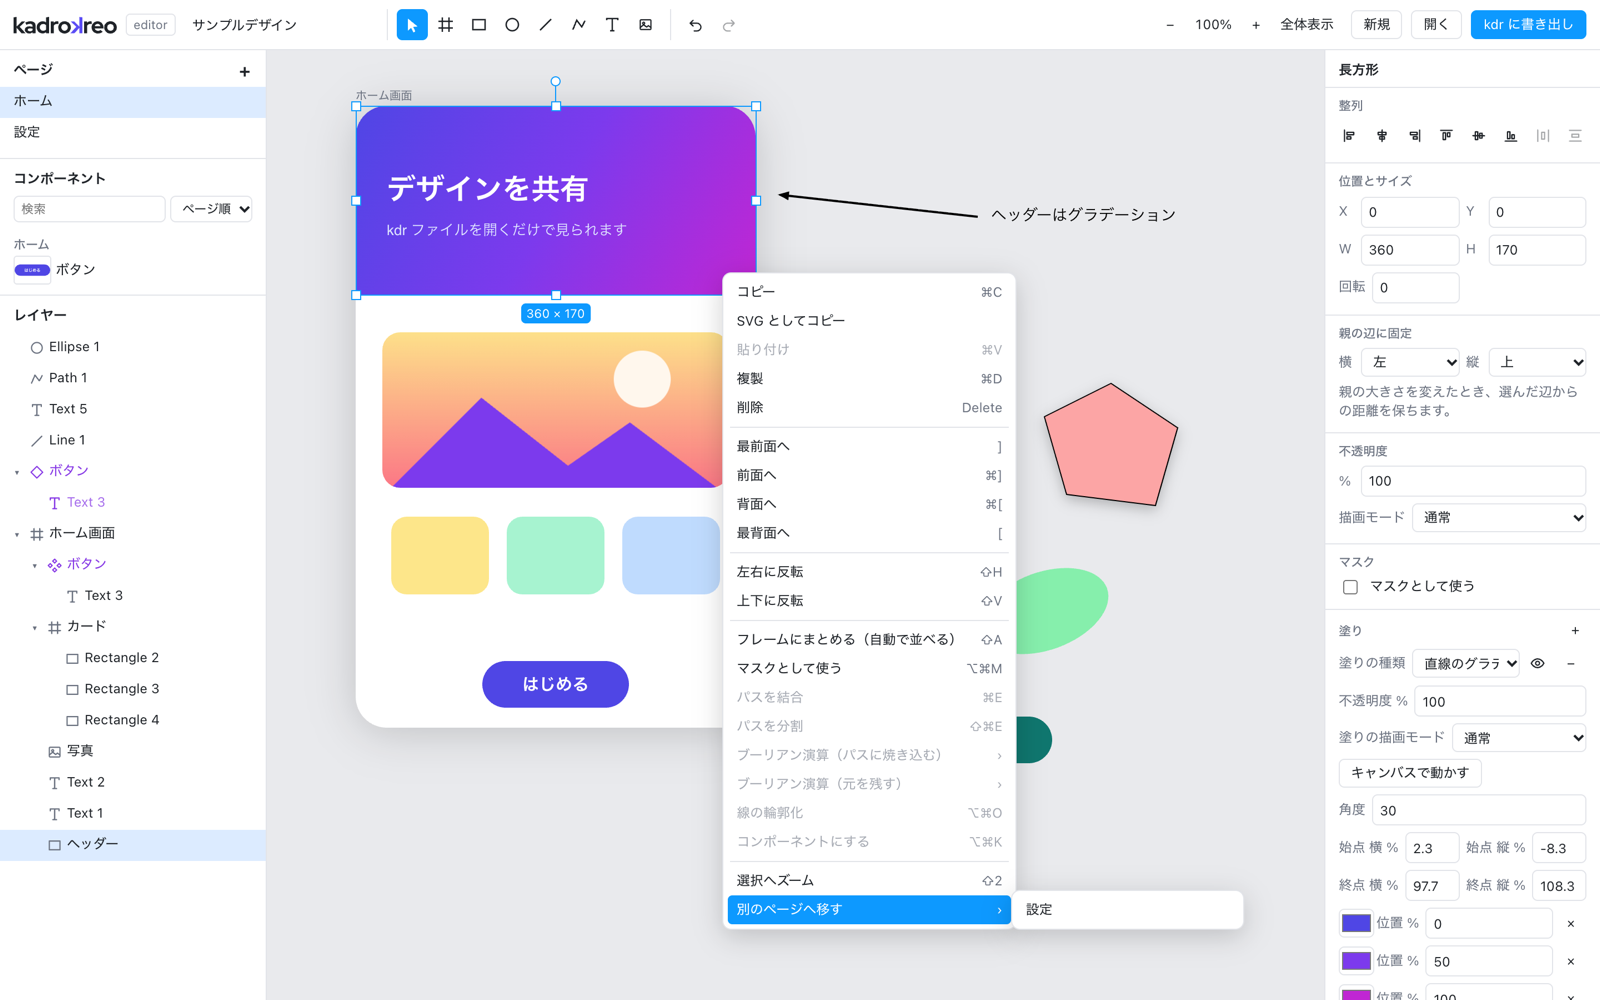
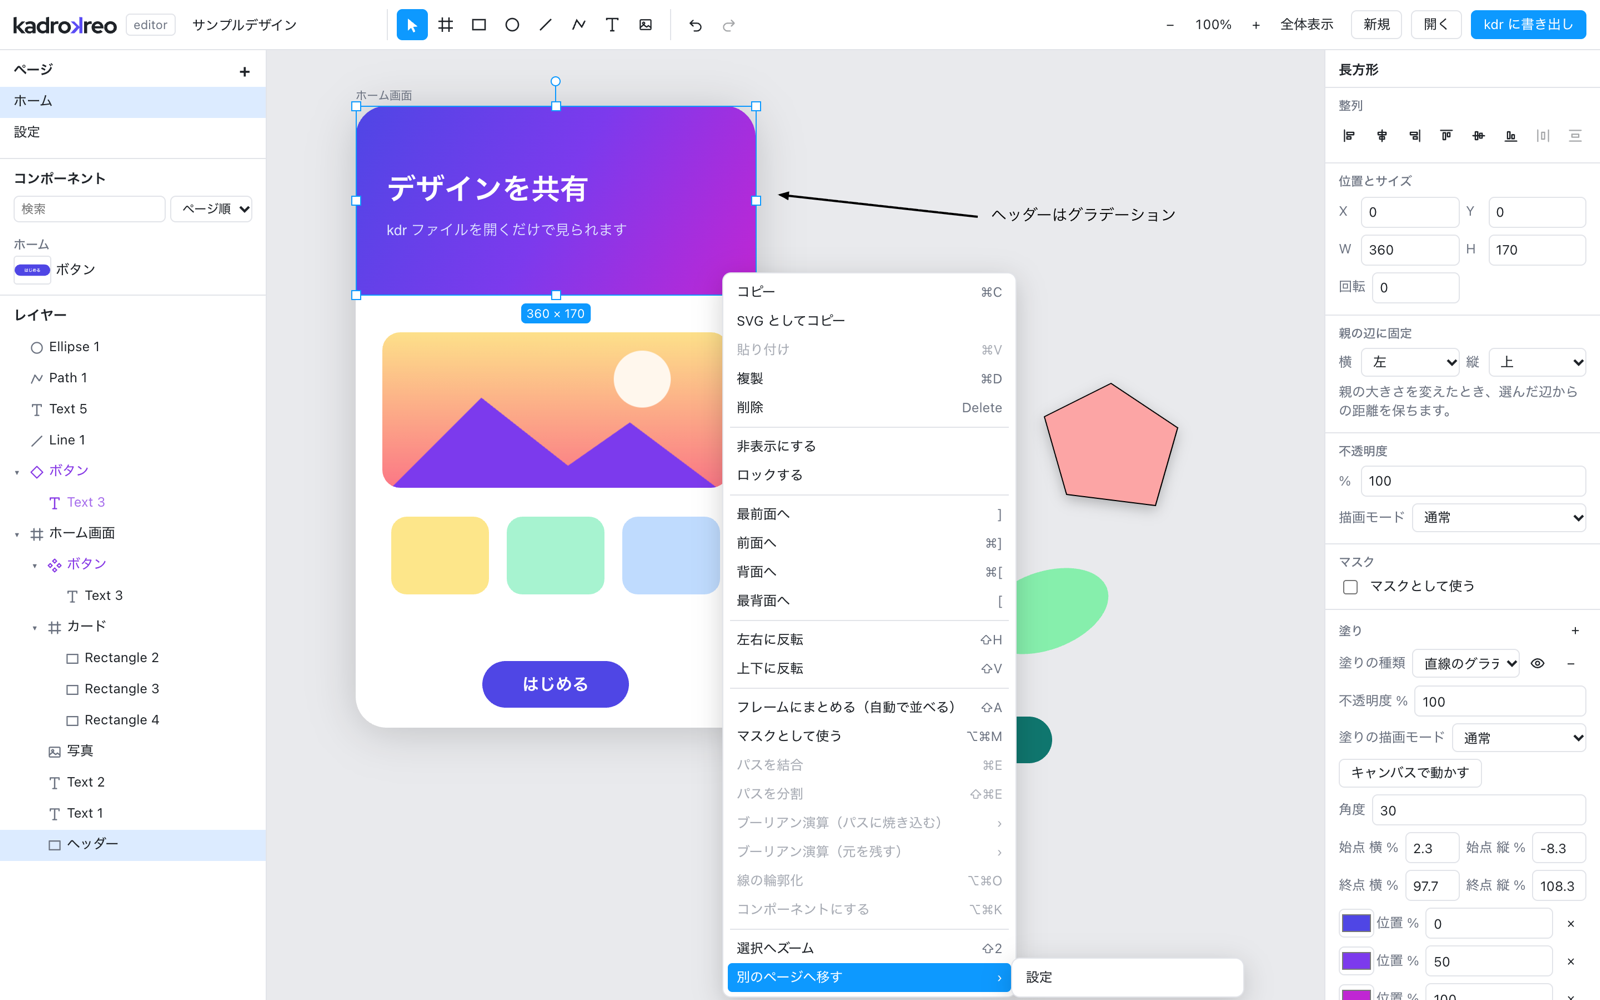
レイヤーパネルの行でも右クリックメニューを出し、メニューに表示・ロックの切り替えを足す
メニューの中身はキャンバスと同じものを 1 か所（EditorCanvas）で作り、レイヤーパネルからは EditorApp が持つ ref を通してキャンバスに開かせる。項目を二重に持たないため。
メニューはウィンドウ基準（position: fixed）に変え、パネルの上でもキャンバスに切られずに出し、はみ出す向きはウィンドウの大きさで寄せる。そのため CanvasPointer に client 座標を足した。
行の右クリックは、選んでいない行ならその行だけを選び、選んでいる行なら複数の選択をそのまま残す（キャンバスの右クリックと同じ）。
表示・ロックは選んだものをまとめて切り替え、1 つでも見えている（ロックしていない）なら全部を隠す（ロックする）。1 回の Undo で戻る。
インスタンスの中身は行のボタンと同じく表示だけ切り替え、ロックは対象から外す。ショートカットは今回は足していない。

Closes #5

Changed region(s): [[0.4375, 0.434, 0.7812, 1.0]]

diff --git a/src/editor/EditorCanvas.tsx b/src/editor/EditorCanvas.tsx
@@ -1,4 +1,4 @@
-import { useCallback, useEffect, useReducer, useRef, useState } from 'react'
+import { type RefObject, useCallback, useEffect, useLayoutEffect, useReducer, useRef, useState } from 'react'
 import { type CanvasPointer, CanvasView } from '../canvas/CanvasView.tsx'
 import type { Camera } from '../canvas/camera.ts'
 import { hitTest } from '../canvas/hitTest.ts'
@@ -48,7 +48,7 @@ import { useTextEditing } from './editorCanvas/useTextEditing.ts'
 import { findFrameAt } from './hitTest.ts'
 import { isSelfOrAncestor } from './operations/tree.ts'
 import { createPath } from './nodes.ts'
-import { insertNode } from './operations/tree.ts'
+import { insertNode, updateNodes } from './operations/tree.ts'
 import {
   deleteContourVertices,
   editByContour,
@@ -96,9 +96,26 @@ type Props = {
   onCopySvg: () => void
   /** コンポーネントの一覧からドラッグしているインスタンスが入るフレーム（ページ直下なら null） */
   dropTarget?: NodeId | null
+  /** ほかの場所（レイヤーパネル）から右クリックメニューを出すための口。ここに出す関数を入れる */
+  menuOpenerRef?: RefObject<MenuOpener | null>
 }
 
-export function EditorCanvas({ store, camera, state, tool, onToolChange, onPasteImages, onPasteSvg, onCopySvg, onMessage, dropTarget = null }: Props) {
+/** 選択中のものについての右クリックメニューを、画面座標（clientX / clientY）に出す */
+export type MenuOpener = (at: Point) => void
+
+export function EditorCanvas({
+  store,
+  camera,
+  state,
+  tool,
+  onToolChange,
+  onPasteImages,
+  onPasteSvg,
+  onCopySvg,
+  onMessage,
+  dropTarget = null,
+  menuOpenerRef,
+}: Props) {
   const gestureRef = useRef<Gesture | null>(null)
   // ペンツールで描いている途中の頂点（ページ座標、制御点を含む）。cursor はポインタの位置
   const penRef = useRef<{ points: Vertex[]; cursor: Point | null } | null>(null)
@@ -106,7 +123,7 @@ export function EditorCanvas({ store, camera, state, tool, onToolChange, onPaste
   const penPressRef = useRef<Point | null>(null)
   const [hover, setHover] = useState<NodeId | null>(null)
   const [cursor, setCursor] = useState('default')
-  // 右クリックメニューを出している位置（キャンバスの画面座標）
+  // 右クリックメニューを出している位置（ウィンドウの画面座標）
   const [menuAt, setMenuAt] = useState<Point | null>(null)
   const closeMenu = useCallback(() => setMenuAt(null), [])
   const [, redraw] = useReducer((n: number) => n + 1, 0)
@@ -718,19 +735,62 @@ export function EditorCanvas({ store, camera, state, tool, onToolChange, onPaste
     onMessage,
   })
 
-  /** 右クリック。押した所のものを選んで（選択枠の内側なら選択はそのまま）、メニューを出す */
-  function onContextMenu(pointer: CanvasPointer) {
-    if (gestureRef.current) return
+  /** メニューを出す前に、途中の操作（文字の編集・ペン・ほかのツール）を終える */
+  function prepareMenu() {
     if (editingRef.current) finishEditing()
     if (penRef.current) finishPen(false)
     if (tool !== 'select') onToolChange('select')
+    setHover(null)
+  }
+
+  /** 右クリック。押した所のものを選んで（選択枠の内側なら選択はそのまま）、メニューを出す */
+  function onContextMenu(pointer: CanvasPointer) {
+    if (gestureRef.current) return
+    prepareMenu()
     const { selection } = store.getState()
     const hit = pick(pointer)
     if (hit ? !selection.includes(hit) && !insideSelection(pointer, hit) : !insideSelection(pointer, null)) {
       store.select(hit ? [hit] : [])
     }
-    setHover(null)
-    setMenuAt(pointer.screen)
+    setMenuAt(pointer.client)
+  }
+
+  // レイヤーパネルの右クリックからも、同じメニューを出せるようにする（選ぶのはパネルの側）
+  // 出す関数はいつも最新の値（ツールなど）を見る。入れ替えるのは描き終えたあと
+  const openFromOutside = useRef<MenuOpener>(() => {})
+  useLayoutEffect(() => {
+    openFromOutside.current = (at) => {
+      if (gestureRef.current) return
+      prepareMenu()
+      setMenuAt(at)
+    }
+  })
+  useEffect(() => {
+    if (!menuOpenerRef) return
+    menuOpenerRef.current = (at) => openFromOutside.current(at)
+    return () => {
+      menuOpenerRef.current = null
+    }
+  }, [menuOpenerRef])
+
+  /** 表示・ロックの切り替え。選んだもののうち 1 つでも見えている（ロックしていない）なら全部を隠す（ロックする） */
+  function visibilityItems(): MenuItem[] {
+    const { page, selection } = store.getState()
+    // 写し（インスタンスの中身）は、表示の切り替えだけできる（レイヤーパネルの行と同じ）
+    const shown = selection.some((id) => page.nodes[id]?.visible)
+    const own = ownIds()
+    const unlocked = own.some((id) => !page.nodes[id]?.locked)
+    return [
+      {
+        label: shown ? '非表示にする' : '表示する',
+        onSelect: () => store.apply((base) => updateNodes(base, selection, { visible: !shown })),
+      },
+      {
+        label: unlocked ? 'ロックする' : 'ロックを解除',
+        disabled: own.length === 0,
+        onSelect: () => store.apply((base) => updateNodes(base, own, { locked: unlocked })),
+      },
+    ]
   }
 
   function menuItems(): MenuItem[] {
@@ -752,6 +812,8 @@ export function EditorCanvas({ store, camera, state, tool, onToolChange, onPaste
       { label: '貼り付け', shortcut: `${MOD}V`, disabled: !canPaste, onSelect: commands.paste },
       { label: '複製', shortcut: `${MOD}D`, disabled: none, onSelect: commands.duplicate },
       { label: '削除', shortcut: 'Delete', disabled: movableIds().length === 0, onSelect: commands.remove },
+      'separator',
+      ...visibilityItems(),
       'separator',
       { label: '最前面へ', shortcut: ']', disabled: none, onSelect: () => commands.reorder('front') },
       { label: '前面へ', shortcut: `${MOD}]`, disabled: none, onSelect: () => commands.reorder('forward') },
@@ -850,7 +912,7 @@ export function EditorCanvas({ store, camera, state, tool, onToolChange, onPaste
       onDoubleClick={onDoubleClick}
       onContextMenu={onContextMenu}
     >
-      {menuAt && <ContextMenu at={menuAt} area={camera.getSize()} items={menuItems()} onClose={closeMenu} />}
+      {menuAt && <ContextMenu at={menuAt} items={menuItems()} onClose={closeMenu} />}
       {editing && (
         <TextEditor
           key={editing.id}

diff --git a/src/editor/LayersPanel.tsx b/src/editor/LayersPanel.tsx
@@ -2,6 +2,7 @@ import { type DragEvent, type MouseEvent, memo, useLayoutEffect, useMemo, useRef
 import { isInstance, owningInstance } from '../document/component.ts'
 import { isComponentPart } from '../document/variants.ts'
 import { isOpen, layerRows, toggleFolding } from '../document/layers.ts'
+import type { Point } from '../document/geometry.ts'
 import type { NodeId, Scene, SceneNode } from '../document/types.ts'
 import { LayerCaret, LayerIcon } from '../ui/LayerParts.tsx'
 import { useVirtualRows } from '../ui/virtualRows.ts'
@@ -15,6 +16,8 @@ import type { EditorState, EditorStore } from './store.ts'
 type Props = {
   store: EditorStore
   state: EditorState
+  /** 行を右クリックした。選択を決めたあとで、画面座標（clientX / clientY）にメニューを出す */
+  onContextMenu: (at: Point) => void
 }
 
 type Drop = { id: NodeId; placement: Placement }
@@ -29,6 +32,7 @@ function isInLayout(scene: Scene, id: NodeId): boolean {
 /** 行から呼ぶ操作。描き直しても同じ参照のままなので、変わっていない行は描き直さずに済む */
 type RowActions = {
   click: (event: MouseEvent, id: NodeId) => void
+  contextMenu: (event: MouseEvent, id: NodeId) => void
   toggleOpen: (id: NodeId) => void
   startRename: (id: NodeId) => void
   commitRename: (id: NodeId, name: string) => void
@@ -40,7 +44,7 @@ type RowActions = {
   toggleVisible: (node: SceneNode) => void
 }
 
-export function LayersPanel({ store, state }: Props) {
+export function LayersPanel({ store, state, onContextMenu }: Props) {
   const { page, selection } = state
   const [toggled, setToggled] = useState<ReadonlySet<NodeId>>(new Set())
   const [renaming, setRenaming] = useState<NodeId | null>(null)
@@ -62,9 +66,9 @@ export function LayersPanel({ store, state }: Props) {
   const anchorRef = useRef<{ id: NodeId; selection: readonly NodeId[] } | null>(null)
 
   // 操作は、いつも最新の値を見る（行に渡す関数の参照は変えない）。値は描き終えたあとに入れ替える
-  const latest = useRef({ store, selection, toggled, drop, folding, rows })
+  const latest = useRef({ store, selection, toggled, drop, folding, rows, onContextMenu })
   useLayoutEffect(() => {
-    latest.current = { store, selection, toggled, drop, folding, rows }
+    latest.current = { store, selection, toggled, drop, folding, rows, onContextMenu }
   })
 
   const actions = useMemo<RowActions>(() => {
@@ -99,6 +103,16 @@ export function LayersPanel({ store, state }: Props) {
           store.select([id])
           setAnchor()
         }
+      },
+      contextMenu(event, id) {
+        // 選んでいない行ならその行だけを選ぶ。選んでいる行なら、いくつ選んでいてもそのまま（キャンバスと同じ）
+        event.preventDefault()
+        const { store, onContextMenu } = now()
+        if (!store.getState().selection.includes(id)) {
+          store.select([id])
+          anchorRef.current = { id, selection: store.getState().selection }
+        }
+        onContextMenu({ x: event.clientX, y: event.clientY })
       },
       toggleOpen,
       startRename: (id) => setRenaming(id),
@@ -200,6 +214,7 @@ const LayerItem = memo(function LayerItem({ node, depth, copy, selected, open, c
       style={{ paddingLeft: 8 + depth * 16 }}
       draggable={!copy && !renaming}
       onClick={(event) => actions.click(event, node.id)}
+      onContextMenu={(event) => !renaming && actions.contextMenu(event, node.id)}
       onDragStart={(event) => actions.dragStart(event, node.id)}
       onDragOver={(event) => actions.dragOver(event, node, copy)}
       onDrop={actions.drop}

diff --git a/src/editor/ContextMenu.tsx b/src/editor/ContextMenu.tsx
@@ -1,7 +1,7 @@
 import { type KeyboardEvent, useEffect, useLayoutEffect, useRef, useState } from 'react'
-import type { Point, Size } from '../document/geometry.ts'
+import type { Point } from '../document/geometry.ts'
 
-// キャンバスの右クリックメニュー。中身（どの操作を出すか）は EditorCanvas が決める
+// キャンバスとレイヤーパネルの右クリックメニュー。中身（どの操作を出すか）は EditorCanvas が決める
 
 export type MenuItem =
   | {
@@ -16,29 +16,28 @@ export type MenuItem =
   | 'separator'
 
 type Props = {
-  /** 出す位置（キャンバスの左上を原点とする画面座標） */
+  /** 出す位置（ウィンドウの左上を原点とする画面座標）。はみ出す向きには反対側へ出す */
   at: Point
-  /** キャンバスの大きさ。はみ出す向きには反対側へ出す */
-  area: Size
   items: MenuItem[]
   onClose: () => void
 }
 
-export function ContextMenu({ at, area, items, onClose }: Props) {
+export function ContextMenu({ at, items, onClose }: Props) {
   const ref = useRef<HTMLDivElement>(null)
   const [position, setPosition] = useState(at)
 
-  // 大きさが分かってから、キャンバスの中に収まる位置へ寄せる
+  // 大きさが分かってから、ウィンドウの中に収まる位置へ寄せる
   useLayoutEffect(() => {
     const menu = ref.current
     if (!menu) return
     const { offsetWidth: width, offsetHeight: height } = menu
+    const { innerWidth, innerHeight } = window
     setPosition({
-      x: at.x + width > area.width ? Math.max(0, at.x - width) : at.x,
-      y: at.y + height > area.height ? Math.max(0, area.height - height) : at.y,
+      x: at.x + width > innerWidth ? Math.max(0, at.x - width) : at.x,
+      y: at.y + height > innerHeight ? Math.max(0, innerHeight - height) : at.y,
     })
     menu.querySelector<HTMLButtonElement>('button:not(:disabled)')?.focus()
-  }, [at, area])
+  }, [at])
 
   // メニューの外を押す・Esc・ウィンドウの大きさが変わる、で閉じる。
   // Esc はキャンバスのショートカット（選択の解除）より先に受けて、そちらへは流さない

diff --git a/src/editor/EditorApp.tsx b/src/editor/EditorApp.tsx
@@ -16,7 +16,7 @@ import { downloadBlob, safeFileName } from '../ui/download.ts'
 import { TypeIcon } from '../ui/icons.tsx'
 import { ZoomControls } from '../ui/ZoomControls.tsx'
 import { useFileDrop } from '../ui/useFileDrop.ts'
-import { EditorCanvas } from './EditorCanvas.tsx'
+import { EditorCanvas, type MenuOpener } from './EditorCanvas.tsx'
 import type { Tool } from './tools.ts'
 import { ComponentsPanel } from './ComponentsPanel.tsx'
 import { LayersPanel } from './LayersPanel.tsx'
@@ -63,6 +63,8 @@ function Editor({ store }: { store: EditorStore }) {
   // ページごとに、最後に見ていた位置を覚えておく
   const viewportsRef = useRef(new Map<PageId, Viewport>())
   const shownPageRef = useRef(state.page.id)
+  // レイヤーパネルの右クリックから、キャンバスと同じメニューを出す（出す関数はキャンバスが入れる）
+  const menuOpenerRef = useRef<MenuOpener | null>(null)
 
   useEffect(() => {
     camera.fit(getContentBounds(store.getState().page))
@@ -327,7 +329,7 @@ function Editor({ store }: { store: EditorStore }) {
         <aside className="panel layers-panel">
           <PagesPanel store={store} state={state} />
           <ComponentsPanel store={store} state={state} camera={camera} />
-          <LayersPanel store={store} state={state} />
+          <LayersPanel store={store} state={state} onContextMenu={(at) => menuOpenerRef.current?.(at)} />
         </aside>
         <main
           className="app-main"
@@ -364,6 +366,7 @@ function Editor({ store }: { store: EditorStore }) {
             onCopySvg={copySvg}
             onMessage={setMessage}
             dropTarget={dropTarget}
+            menuOpenerRef={menuOpenerRef}
           />
           {dragging && <div className="drop-overlay">画像・SVG または kdr ファイルをドロップ</div>}
         </main>

diff --git a/src/canvas/CanvasView.tsx b/src/canvas/CanvasView.tsx
@@ -17,6 +17,8 @@ import { type Viewport, screenToWorld } from './viewport.ts'
 export type CanvasPointer = {
   /** キャンバス左上を原点とする画面座標 */
   screen: Point
+  /** ウィンドウ左上を原点とする画面座標（clientX / clientY） */
+  client: Point
   /** ページ座標 */
   world: Point
   shiftKey: boolean
@@ -196,6 +198,7 @@ export function CanvasView(props: Props) {
     const screen = { x: event.clientX - rect.left, y: event.clientY - rect.top }
     return {
       screen,
+      client: { x: event.clientX, y: event.clientY },
       world: screenToWorld(camera.getViewport(), screen),
       shiftKey: event.shiftKey,
       altKey: event.altKey,

diff --git a/src/editor/editorCanvas/drag.test.ts b/src/editor/editorCanvas/drag.test.ts
@@ -6,7 +6,7 @@ import { insertNode } from '../operations/tree.ts'
 import { createEditorStore } from '../store.ts'
 import { dragGesture, moveGesture } from './drag.ts'
 
-const pointer = (world: { x: number; y: number }, modKey = false) => ({ screen: world, world, shiftKey: false, altKey: false, modKey })
+const pointer = (world: { x: number; y: number }, modKey = false) => ({ screen: world, client: world, world, shiftKey: false, altKey: false, modKey })
 
 /** 30° 回した 2 つの矩形。b は a の右に、回した向きに沿って 3 だけ離して置く */
 function setup() {

diff --git a/src/index.css b/src/index.css
@@ -239,9 +239,9 @@ input.document-name:focus {
   height: 100%;
 }
 
-/* キャンバスの右クリックメニュー */
+/* キャンバスとレイヤーパネルの右クリックメニュー（ウィンドウを基準に置く） */
 .context-menu {
-  position: absolute;
+  position: fixed;
   z-index: 20;
   min-width: 200px;
   padding: 4px;
@@ -252,6 +252,7 @@ input.document-name:focus {
 }
 
 .context-menu-nested {
+  position: absolute;
   top: -5px;
   left: 100%;
 }

diff --git a/docs/guide/editor.md b/docs/guide/editor.md
@@ -18,7 +18,7 @@
 | `Space` + ドラッグ、ホイール | 画面の移動 |
 | `⌘`/`Ctrl` + ホイール、ピンチ | ズーム |
 | `Shift` + `1` / `Shift` + `2` / `Shift` + `0` | 全体を表示 / 選択へズーム / 100% |
-| 右クリック | メニュー（コピー・貼り付け・複製・削除・重なり順・まとめる・コンポーネントにする・選択へズーム・別のページへ移す） |
+| 右クリック | メニュー（コピー・貼り付け・複製・削除・表示 / 非表示・ロック / ロック解除・重なり順・まとめる・コンポーネントにする・選択へズーム・別のページへ移す）。レイヤーパネルの行でも同じメニューが出る |
 | `⌘`/`Ctrl` + `Z` / `Shift` + `Z` | 元に戻す / やり直す |
 | `⌘`/`Ctrl` + `C` / `X` / `V` / `D` | コピー / 切り取り / 貼り付け / 複製（元のすぐ上に入る） |
 | `]` / `[` | 最前面 / 最背面へ（`⌘`/`Ctrl` 併用で 1 つずつ） |
@@ -213,6 +213,10 @@
 - ページ直下のフレームは、左上の名前ラベルをつかんで動かせる
 - レイヤーパネルではドラッグで重なり順と親子関係を変えられる。名前はダブルクリックで変更。
   `Shift` を押して押すと、最後に押した行からの範囲を選び、`⌘`/`Ctrl` を押して押すと 1 行ずつ足し外しする
+- 行の右端の鍵と目のアイコンで、ロックと表示を切り替えられる。
+  行を右クリックすると、その行を選んで（選んでいる行なら、いくつ選んでいてもそのまま）キャンバスと同じメニューを出す。
+  メニューの「非表示にする / 表示する」「ロックする / ロックを解除」は選んでいるものをまとめて切り替え（1 つでも見えていれば全部を隠す。ロックも同じ）、`⌘`/`Ctrl` + `Z` で戻せる。
+  インスタンスの中身は表示だけ切り替えられる
 - ページは左上の一覧で追加・複製・削除・並べ替え（ドラッグ）・名前変更（ダブルクリック）ができる。
   ページごとに独立したキャンバスを持ち、右クリックメニューの「別のページへ移す」で図形をほかのページへ移せる（コピー＆貼り付けと違い、コンポーネントの元は元のまま）
 
